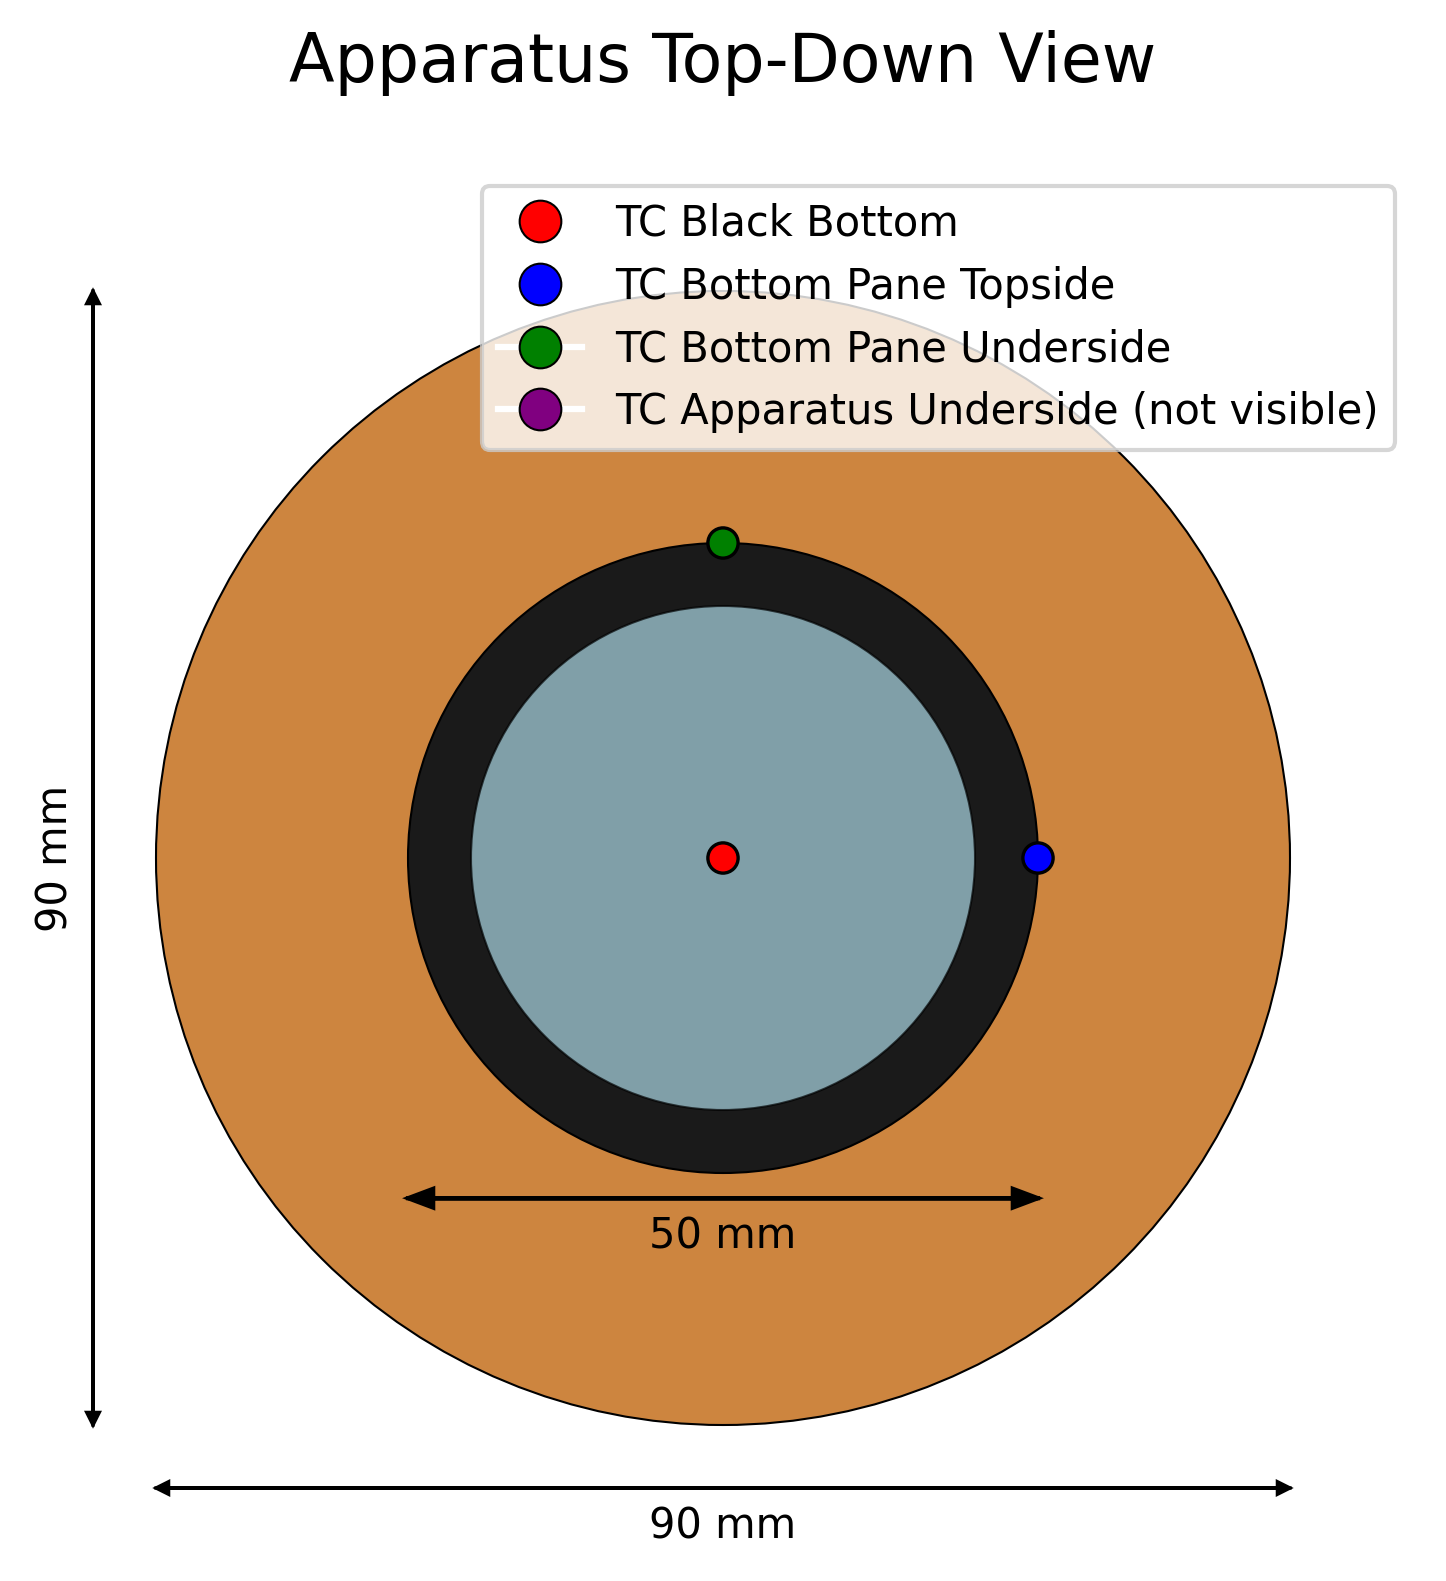
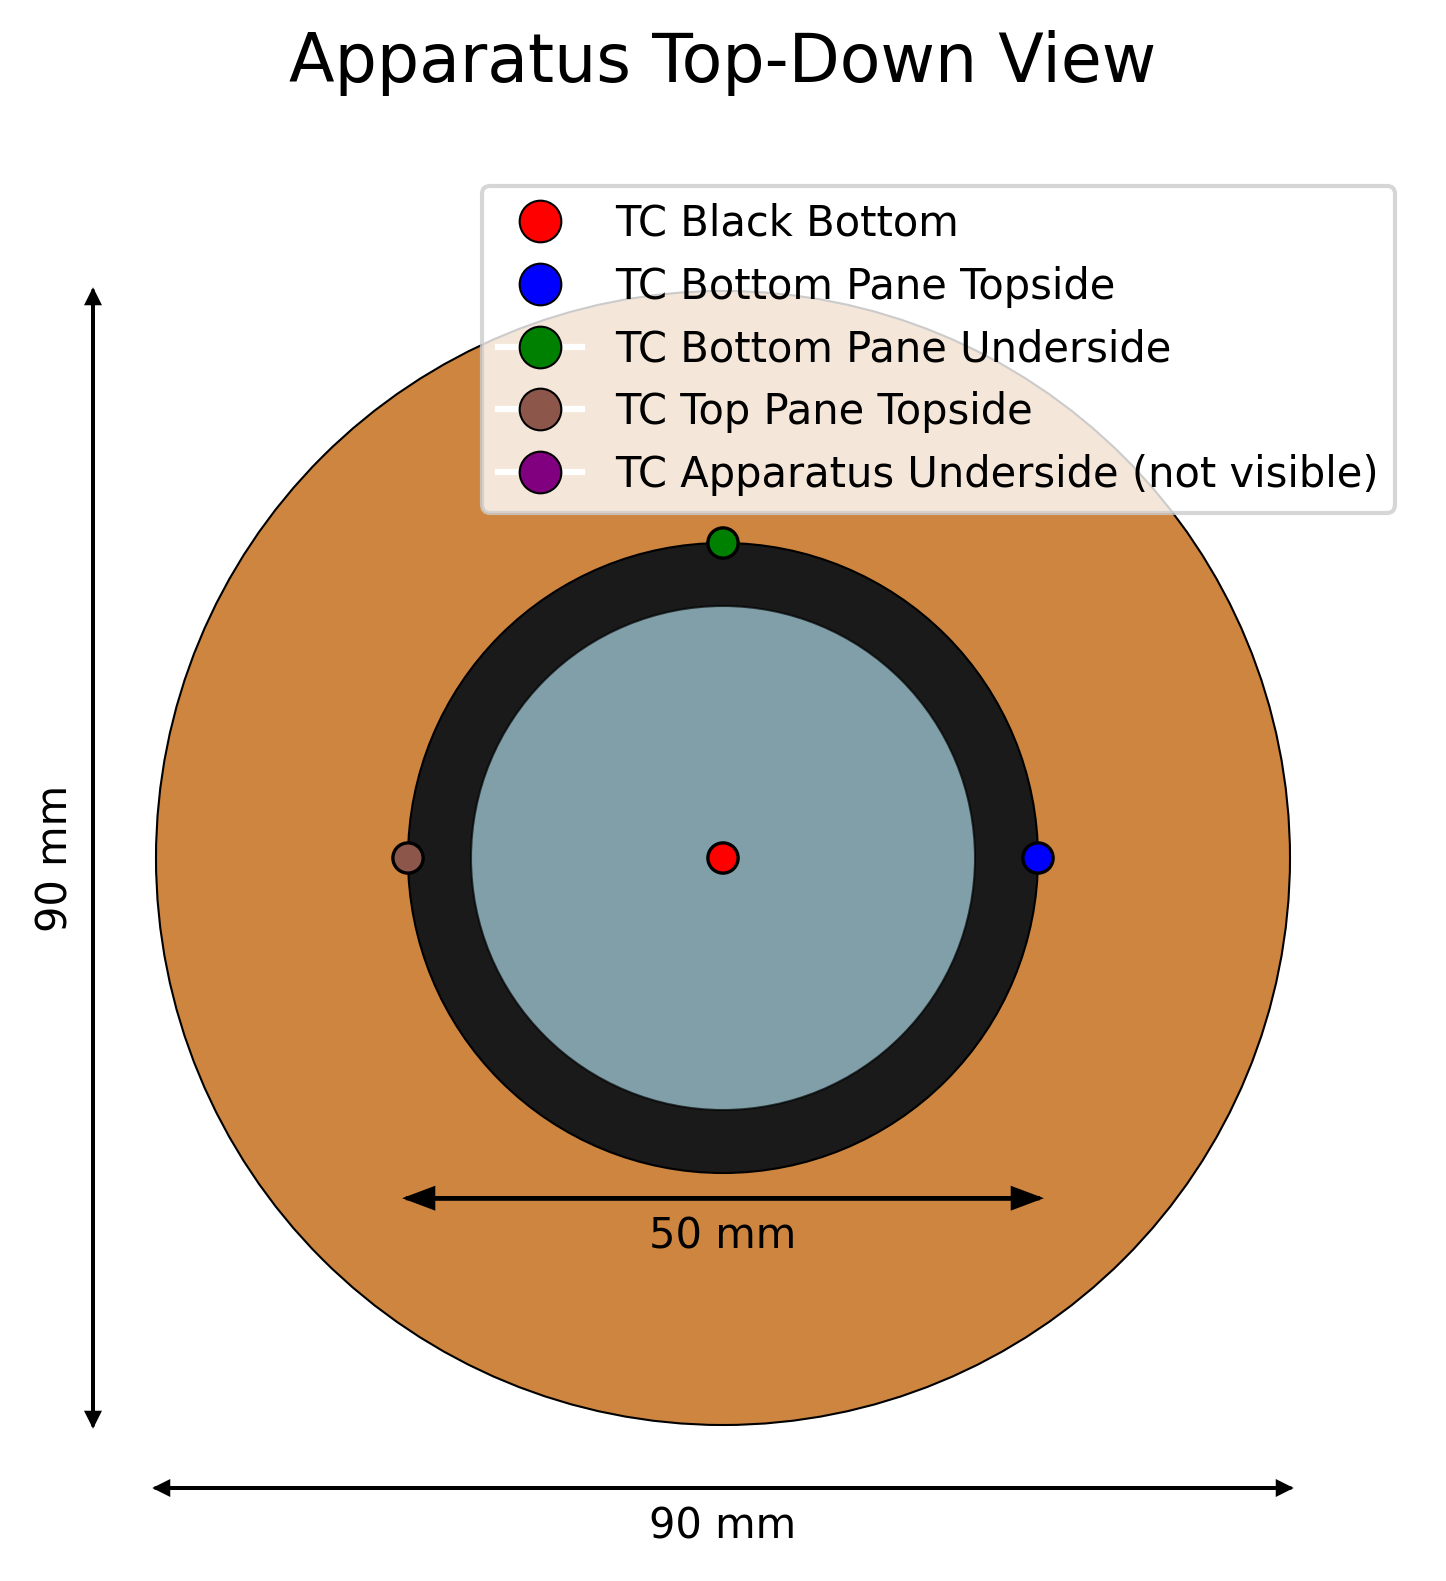
add last thermocouple

Changed region(s): [[0.3112, 0.2479, 0.9647, 0.3409], [0.249, 0.5269, 0.3112, 0.5579]]

diff --git a/figure2-apparatus/generate_apparatus_2d.py b/figure2-apparatus/generate_apparatus_2d.py
@@ -33,6 +33,7 @@ RED_TC_COLOR = 'red'  # Top of black bottom
 BLUE_TC_COLOR = 'blue'  # Top of bottom pane
 GREEN_TC_COLOR = 'green'  # Under bottom pane
 PURPLE_TC_COLOR = 'purple'  # Underside of apparatus
+BROWN_TC_COLOR = '#8c564b'  # Top pane topside (matches figure3a)
 
 # Figure settings
 DPI = 300
@@ -335,6 +336,15 @@ def draw_apparatus(ax, with_glasses=True):
             PURPLE_TC_COLOR,
             label="Purple TC"
         )
+        
+        # Brown thermocouple - top of top pane (4th glass pane)
+        brown_tc = draw_thermocouple(
+            ax,
+            -GLASS_DIAMETER/2 + THERMOCOUPLE_THICKNESS,  # Opposite of blue TC
+            glass_positions[3] + GLASS_THICKNESS,
+            BROWN_TC_COLOR,
+            label="Brown TC"
+        )
     
     # Add dimension lines and labels
     # Overall height
@@ -376,7 +386,8 @@ def draw_apparatus(ax, with_glasses=True):
             Line2D([0], [0], marker='o', color='w', markerfacecolor=RED_TC_COLOR, markersize=10, label='TC Black Bottom'),
             Line2D([0], [0], marker='o', color='w', markerfacecolor=BLUE_TC_COLOR, markersize=10, label='TC Bottom Pane Topside'),
             Line2D([0], [0], marker='o', color='w', markerfacecolor=GREEN_TC_COLOR, markersize=10, label='TC Bottom Pane Underside'),
-            Line2D([0], [0], marker='o', color='w', markerfacecolor=PURPLE_TC_COLOR, markersize=10, label='TC Apparatus Underside')
+            Line2D([0], [0], marker='o', color='w', markerfacecolor=PURPLE_TC_COLOR, markersize=10, label='TC Apparatus Underside'),
+            Line2D([0], [0], marker='o', color='w', markerfacecolor=BROWN_TC_COLOR, markersize=10, label='TC Top Pane Topside')
         ]
         ax.legend(handles=legend_elements, loc='upper right', bbox_to_anchor=(1.1, 1.2))
 

diff --git a/figure2-apparatus/generate_top_down_view.py b/figure2-apparatus/generate_top_down_view.py
@@ -12,7 +12,7 @@ import os
 from generate_apparatus_2d import (
     CORK_DIAMETER, CORK_HOLE_DIAMETER, GLASS_DIAMETER, 
     LAYER_THICKNESS, CORK_COLOR, BLACK_BOTTOM_COLOR, GLASS_COLOR, GLASS_ALPHA,
-    RED_TC_COLOR, BLUE_TC_COLOR, GREEN_TC_COLOR, PURPLE_TC_COLOR,
+    RED_TC_COLOR, BLUE_TC_COLOR, GREEN_TC_COLOR, PURPLE_TC_COLOR, BROWN_TC_COLOR,
     THERMOCOUPLE_THICKNESS, DPI, MARGIN
 )
 
@@ -173,6 +173,18 @@ def draw_top_down_view(ax, with_glass=True):
     )
     ax.add_patch(purple_tc)
     
+    # Brown thermocouple - top of top pane (opposite to blue TC)
+    brown_tc = patches.Circle(
+        (-blue_x, blue_y),  # Opposite side from blue TC
+        radius=THERMOCOUPLE_THICKNESS * 1.2,
+        facecolor=BROWN_TC_COLOR,
+        edgecolor='black',
+        linewidth=0.8,
+        zorder=tc_zorder,
+        label="Brown TC"
+    )
+    ax.add_patch(brown_tc)
+    
     # Add dimension lines and labels with higher zorder to stand out
     dim_zorder = 15
     
@@ -223,6 +235,9 @@ def draw_top_down_view(ax, with_glass=True):
         Line2D([0], [0], marker='o', color='w', markerfacecolor=GREEN_TC_COLOR, 
                markersize=10, markeredgecolor='black', markeredgewidth=0.5, 
                label='TC Bottom Pane Underside'),
+        Line2D([0], [0], marker='o', color='w', markerfacecolor=BROWN_TC_COLOR, 
+               markersize=10, markeredgecolor='black', markeredgewidth=0.5, 
+               label='TC Top Pane Topside'),
         Line2D([0], [0], marker='o', color='w', markerfacecolor=PURPLE_TC_COLOR, 
                markersize=10, markeredgecolor='black', markeredgewidth=0.5, 
                label='TC Apparatus Underside (not visible)')
